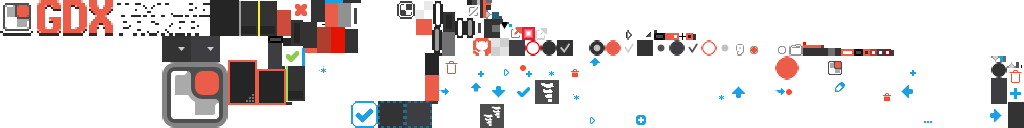
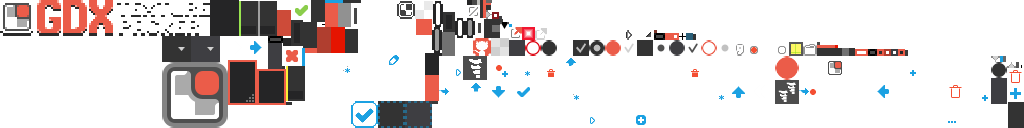
draw aabb

diff --git a/core/src/com/crashinvaders/texturepackergui/views/canvas/widgets/spine/AnimationPanel.java b/core/src/com/crashinvaders/texturepackergui/views/canvas/widgets/spine/AnimationPanel.java
@@ -18,6 +18,8 @@ import com.esotericsoftware.spine.SkeletonRenderer;
 import com.esotericsoftware.spine.Skin;
 import com.esotericsoftware.spine.attachments.Attachment;
 import com.esotericsoftware.spine.attachments.RegionAttachment;
+import lombok.Getter;
+import lombok.Setter;
 import space.earlygrey.shapedrawer.ShapeDrawer;
 
 import java.util.ArrayList;
@@ -39,7 +41,13 @@ public class AnimationPanel extends Group {
 
   private final NinePatch actorBorder;
 
+  private final Rectangle aabb = new Rectangle();
+
   private SkeletonData skeletonData;
+
+  @Getter
+  @Setter
+  private boolean showCoords;
 
   AnimationPanel(com.badlogic.gdx.scenes.scene2d.ui.Skin skin) {
     setTouchable(Touchable.disabled);
@@ -56,14 +64,15 @@ public class AnimationPanel extends Group {
     float scaleY = getScaleY();
     borderFrame.draw(batch, x, y, getWidth() * scaleX, getHeight() * scaleY);
     super.draw(batch, parentAlpha);
-    if (shapeDrawer == null) {
-      shapeDrawer = new ShapeDrawer(batch, GraphicsUtils.onePix);
-    }
-    shapeDrawer.setColor(Color.GREEN);
-    shapeDrawer.setDefaultLineWidth(2f);
-    for (Actor actor : getChildren()) {
-      if (actor instanceof AnimationActor) {
-        ((AnimationActor) actor).drawCoords(shapeDrawer, x, y, scaleX, scaleY);
+    if (showCoords) {
+      if (shapeDrawer == null) {
+        shapeDrawer = new ShapeDrawer(batch, GraphicsUtils.onePix);
+      }
+      shapeDrawer.setDefaultLineWidth(2f);
+      for (Actor actor : getChildren()) {
+        if (actor instanceof AnimationActor) {
+          ((AnimationActor) actor).drawCoords(shapeDrawer, aabb, x, y, scaleX, scaleY);
+        }
       }
     }
   }
@@ -88,6 +97,7 @@ public class AnimationPanel extends Group {
     if (skin == null) {
       return;
     }
+    aabb.set(skeletonData.getX(), skeletonData.getY(), skeletonData.getWidth(), skeletonData.getHeight());
     Map<String, Rectangle> actorBounds = new HashMap<>();
     Attachment attachment;
     for (Skin.SkinEntry skinEntry : skin.getAttachments()) {

diff --git a/core/src/com/crashinvaders/texturepackergui/views/canvas/widgets/spine/AnimationActor.java b/core/src/com/crashinvaders/texturepackergui/views/canvas/widgets/spine/AnimationActor.java
@@ -14,6 +14,12 @@ public class AnimationActor extends SkeletonActor {
 
   private static final float PAD = 2f;
 
+  private static final Color AXES = new Color(0x00ff0066);
+
+  private static final Color AABB = new Color(0xffff0066);
+
+  private static final Rectangle tempAABB = new Rectangle();
+
   private final Rectangle bound;
 
   private final NinePatch border;
@@ -34,12 +40,27 @@ public class AnimationActor extends SkeletonActor {
         bound.getWidth() + PAD * 2f, bound.getHeight() + PAD * 2f);
   }
 
-  public void drawCoords(ShapeDrawer shapeDrawer, float parentX, float parentY, float scaleX, float scaleY) {
+  public void drawCoords(
+      ShapeDrawer shapeDrawer, Rectangle aabb,
+      float parentX, float parentY, float scaleX, float scaleY) {
     float x = parentX + getX() * scaleX;
     float y = parentY + getY() * scaleY;
     float left = x + bound.getX() * scaleX;
     float bottom = y + bound.getY() * scaleY;
+    shapeDrawer.setColor(AXES);
     shapeDrawer.line(left, y, left + bound.getWidth() * scaleX, y);
     shapeDrawer.line(x, bottom, x, bottom + bound.getHeight() * scaleY);
+    shapeDrawer.setColor(AABB);
+    intersect(aabb);
+    shapeDrawer.filledRectangle(
+        x + tempAABB.x * scaleX, y + tempAABB.y * scaleY, tempAABB.width * scaleX, tempAABB.height * scaleY);
+  }
+
+  private void intersect(Rectangle aabb) {
+    float left = Math.max(aabb.x, bound.x);
+    float bottom = Math.max(aabb.y, bound.y);
+    float right = Math.min(aabb.x + aabb.width, bound.x + bound.width);
+    float top = Math.min(aabb.y + aabb.height, bound.y + bound.height);
+    tempAABB.set(left, bottom, right - left, top - bottom);
   }
 }

diff --git a/core/src/com/crashinvaders/texturepackergui/controllers/main/MainController.java b/core/src/com/crashinvaders/texturepackergui/controllers/main/MainController.java
@@ -55,6 +55,7 @@ import com.crashinvaders.texturepackergui.lml.attributes.OnRightClickLmlAttribut
 import com.crashinvaders.texturepackergui.utils.CommonUtils;
 import com.crashinvaders.texturepackergui.utils.LmlAutumnUtils;
 import com.crashinvaders.texturepackergui.views.canvas.PagePreviewCanvas;
+import com.crashinvaders.texturepackergui.views.canvas.widgets.spine.AnimationPanel;
 import com.crashinvaders.texturepackergui.views.seekbar.FloatSeekBarModel;
 import com.crashinvaders.texturepackergui.views.seekbar.IntSeekBarModel;
 import com.crashinvaders.texturepackergui.views.seekbar.SeekBar;
@@ -613,6 +614,11 @@ public class MainController implements ActionContainer, ViewShower, ViewResizer 
 
     @LmlAction("onShowAtlas") void onShowAtlas(VisImageButton button) {
         canvas.setShowAnimations(false);
+    }
+
+    @LmlAction("onShowCoords") void onShowCoords(VisImageButton button) {
+        AnimationPanel panel = canvas.getAnimationViewer().getAnimationPanel();
+        panel.setShowCoords(!panel.isShowCoords());
     }
 
     private void updateViewsFromPack(PackModel pack) {

diff --git a/core/src/com/crashinvaders/texturepackergui/views/canvas/widgets/spine/AnimationViewer.java b/core/src/com/crashinvaders/texturepackergui/views/canvas/widgets/spine/AnimationViewer.java
@@ -8,11 +8,13 @@ import com.badlogic.gdx.scenes.scene2d.ui.WidgetGroup;
 import com.crashinvaders.common.scene2d.ScrollFocusCaptureInputListener;
 import com.crashinvaders.texturepackergui.views.canvas.widgets.OuterFade;
 import com.esotericsoftware.spine.SkeletonData;
+import lombok.Getter;
 
 public class AnimationViewer extends WidgetGroup {
 
   private static final int[] ZOOM_LEVELS = {100, 120, 150, 200, 300, 400, 600, 800};
 
+  @Getter
   private final AnimationPanel animationPanel;
 
   private final Listener listener;
